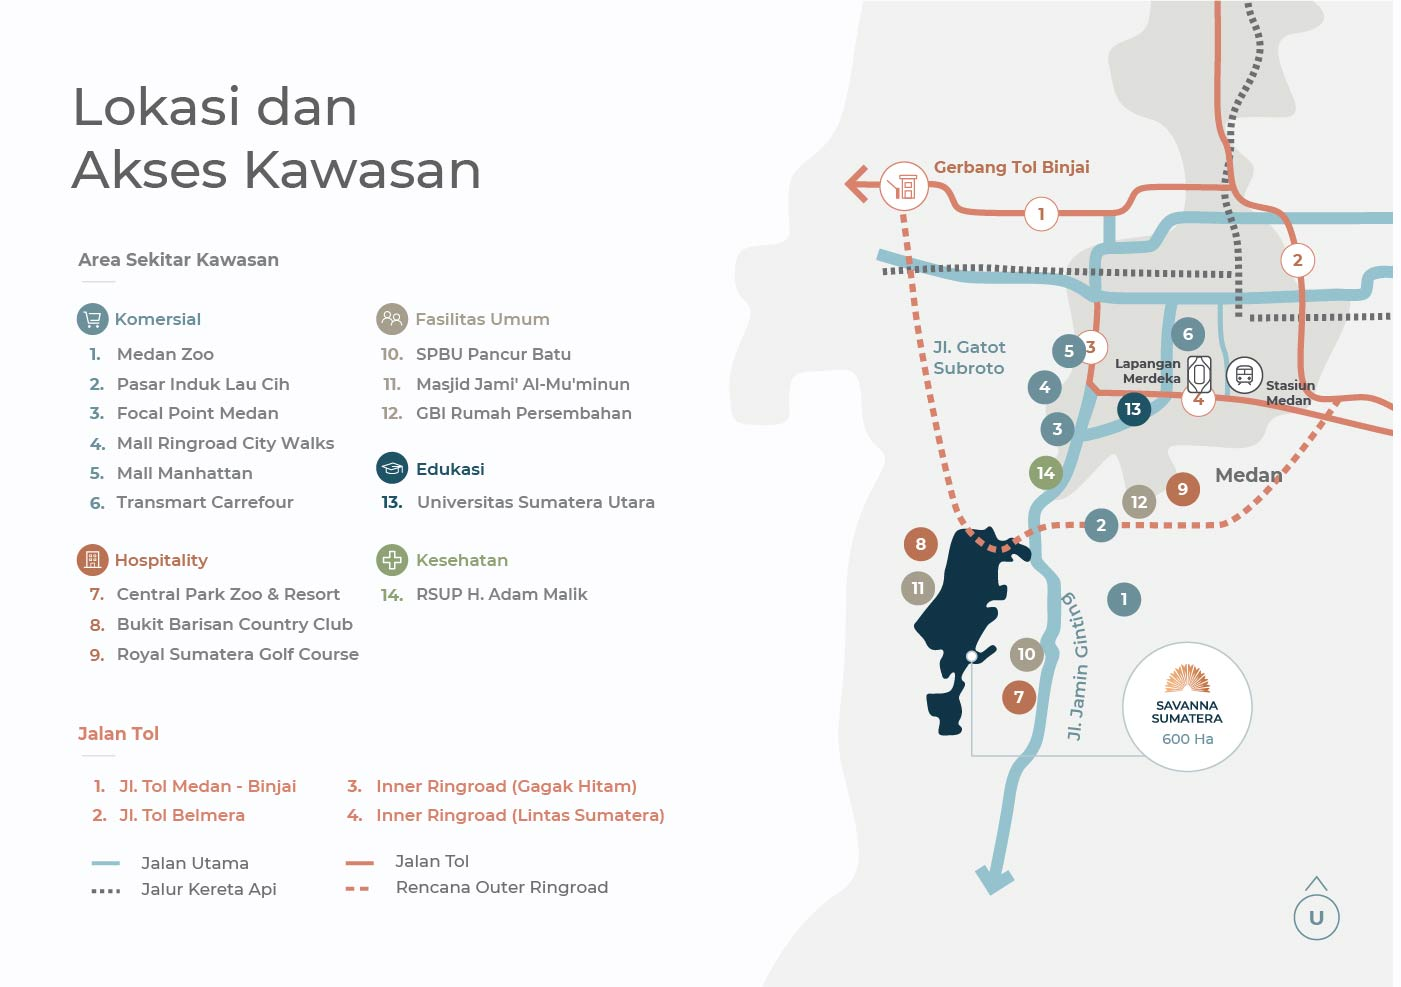
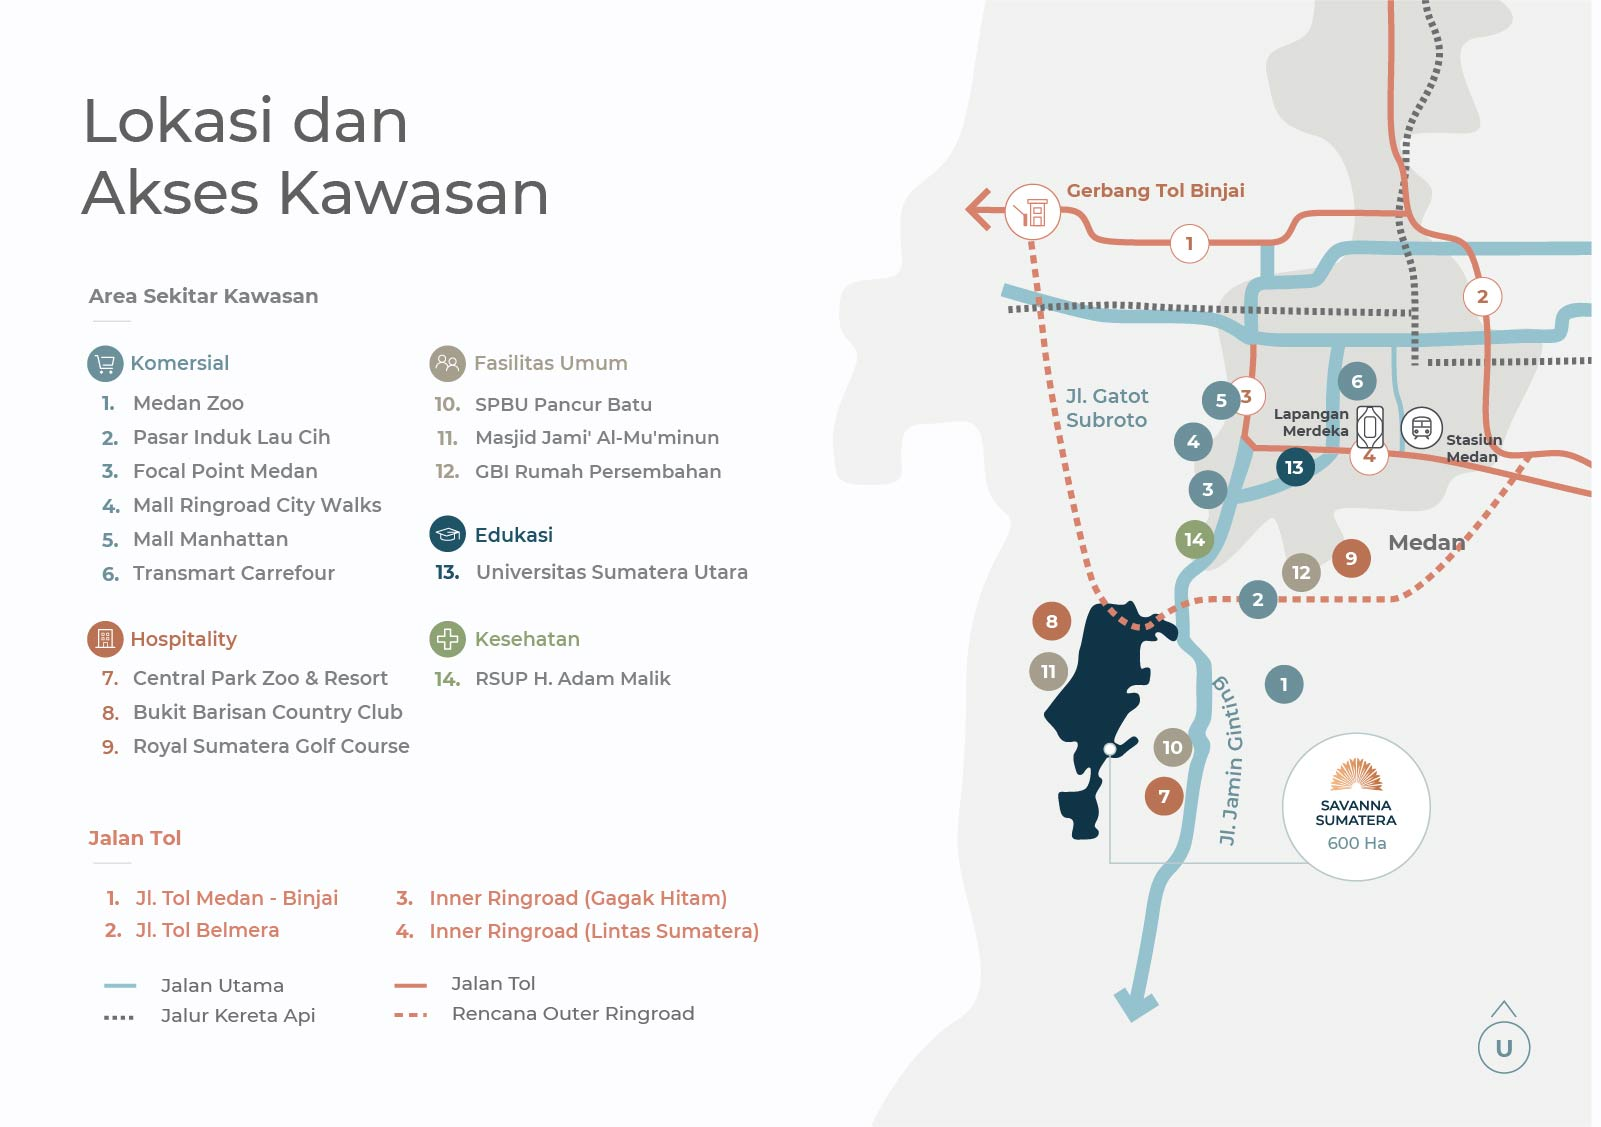
initial commit

diff --git a/index.html b/index.html
@@ -386,7 +386,7 @@
     </div>
     <div class="row">
       <div class="col-lg-10 offset-lg-1">
-        <img class="text-center d-block mx-auto w-100 my-lg-5" src="images/location-detail-images-06-07.jpg" alt="">
+        <img class="text-center d-block mx-auto img-fluid my-lg-5" src="images/location-detail-images-06-07.jpg" alt="">
       </div>
     </div>
   </div>
